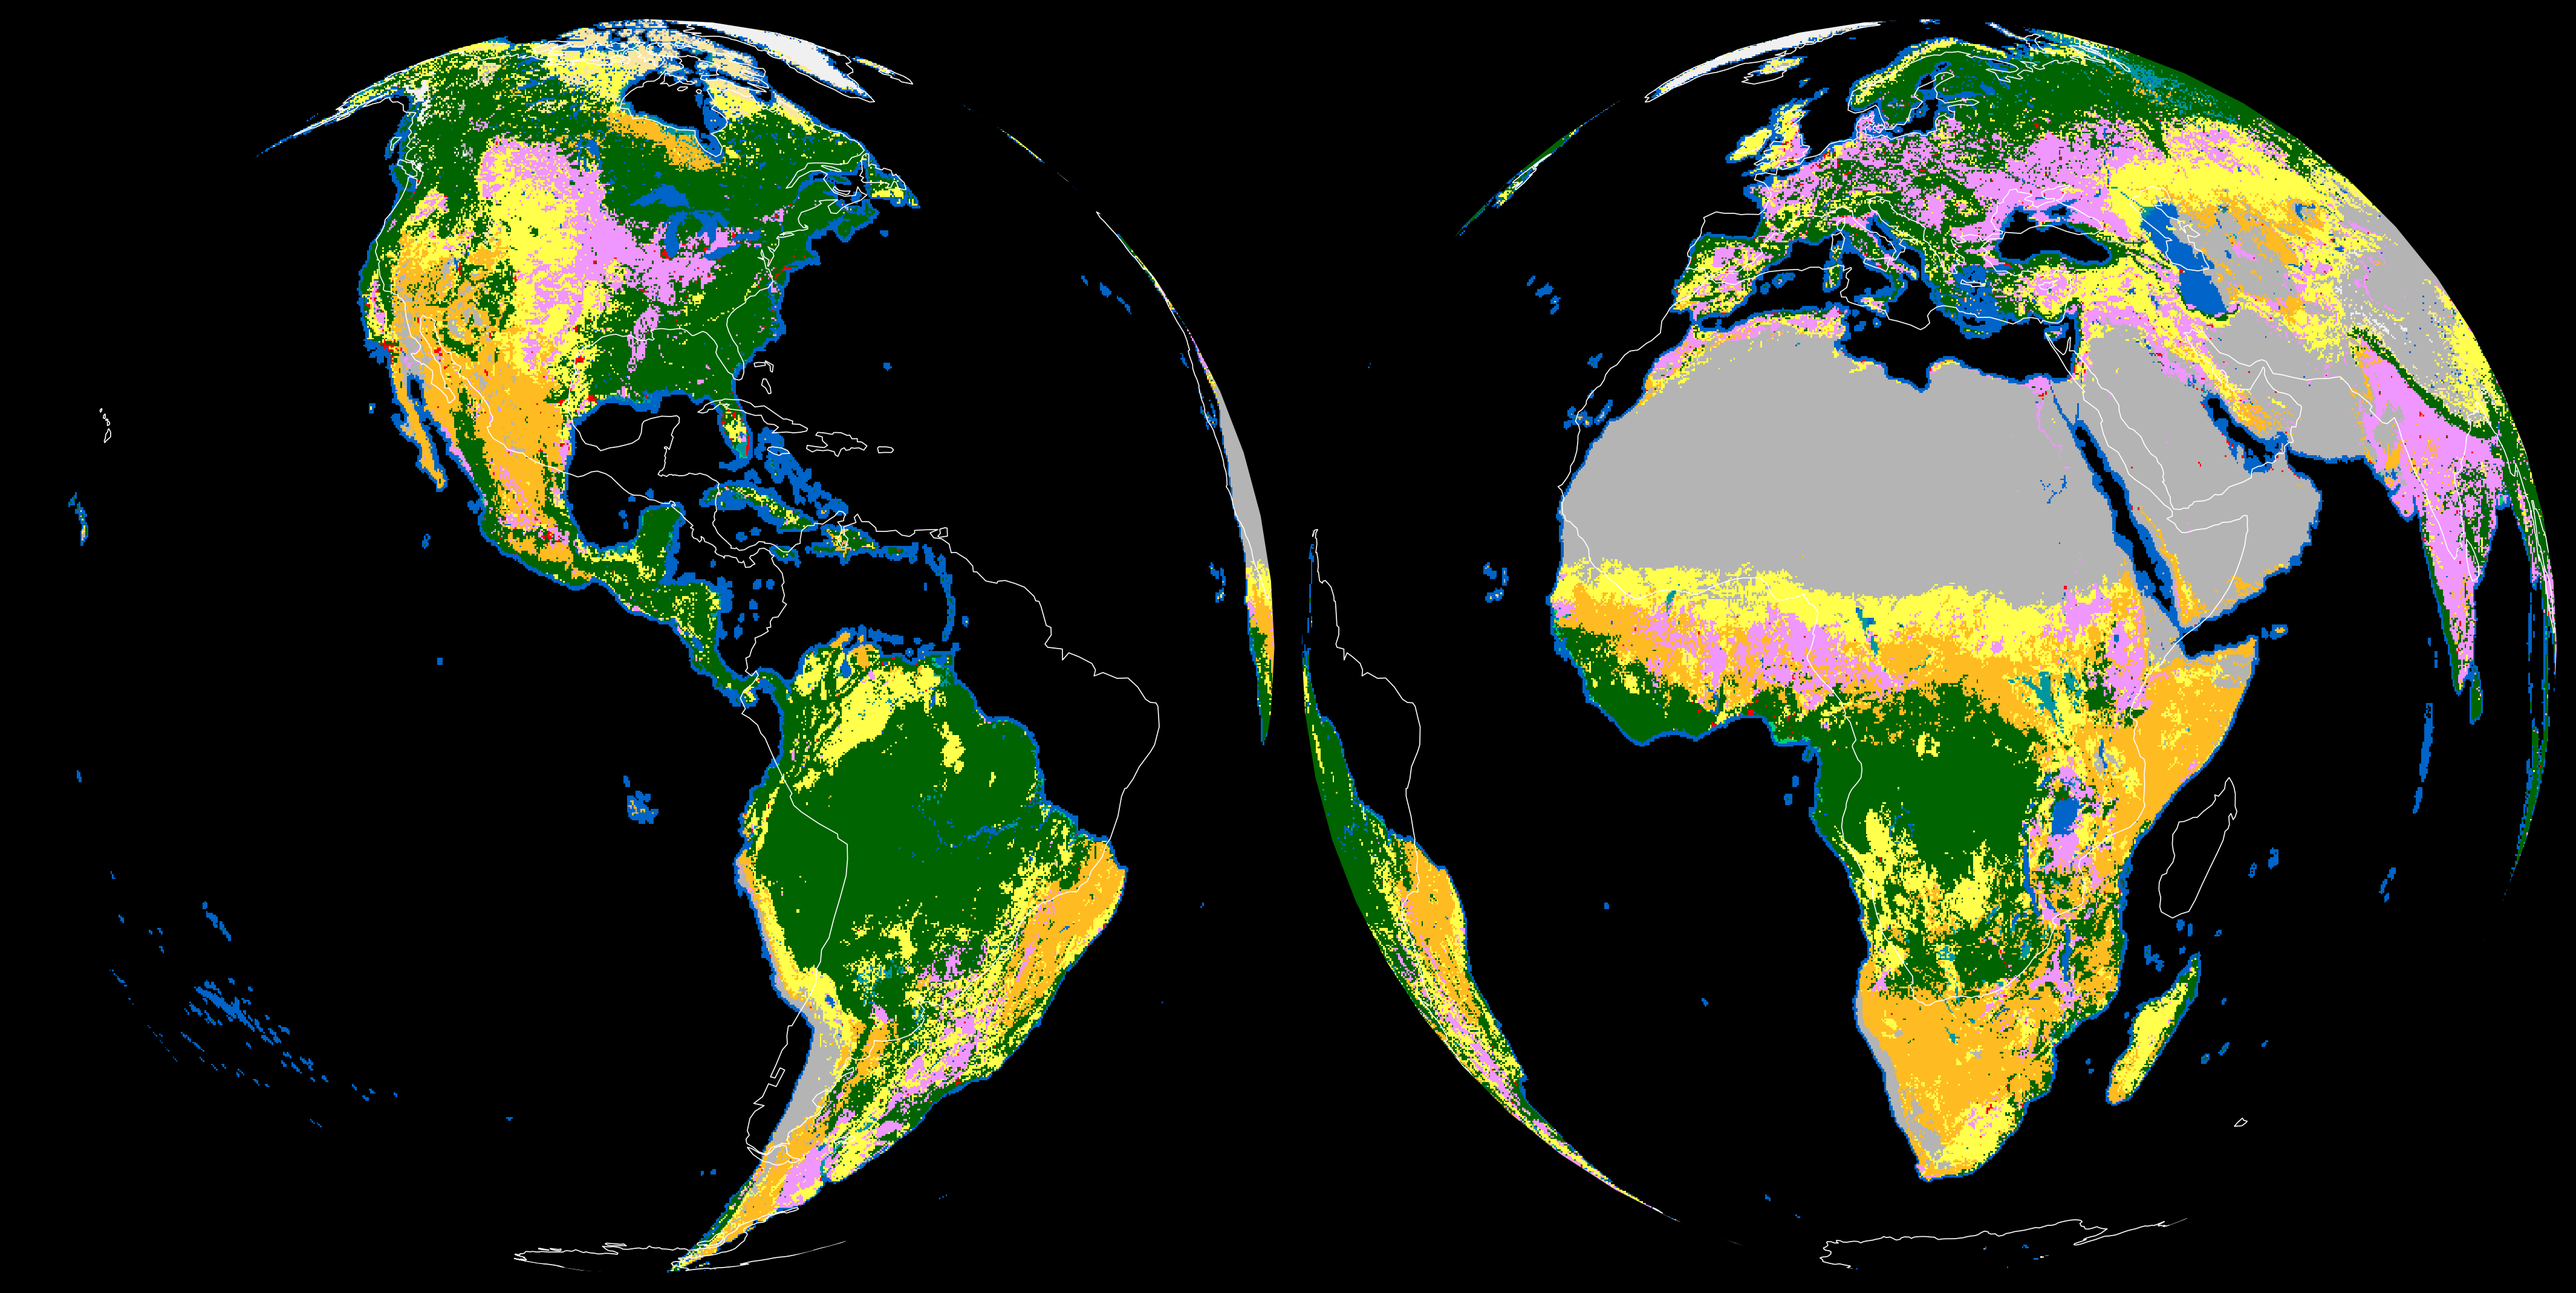
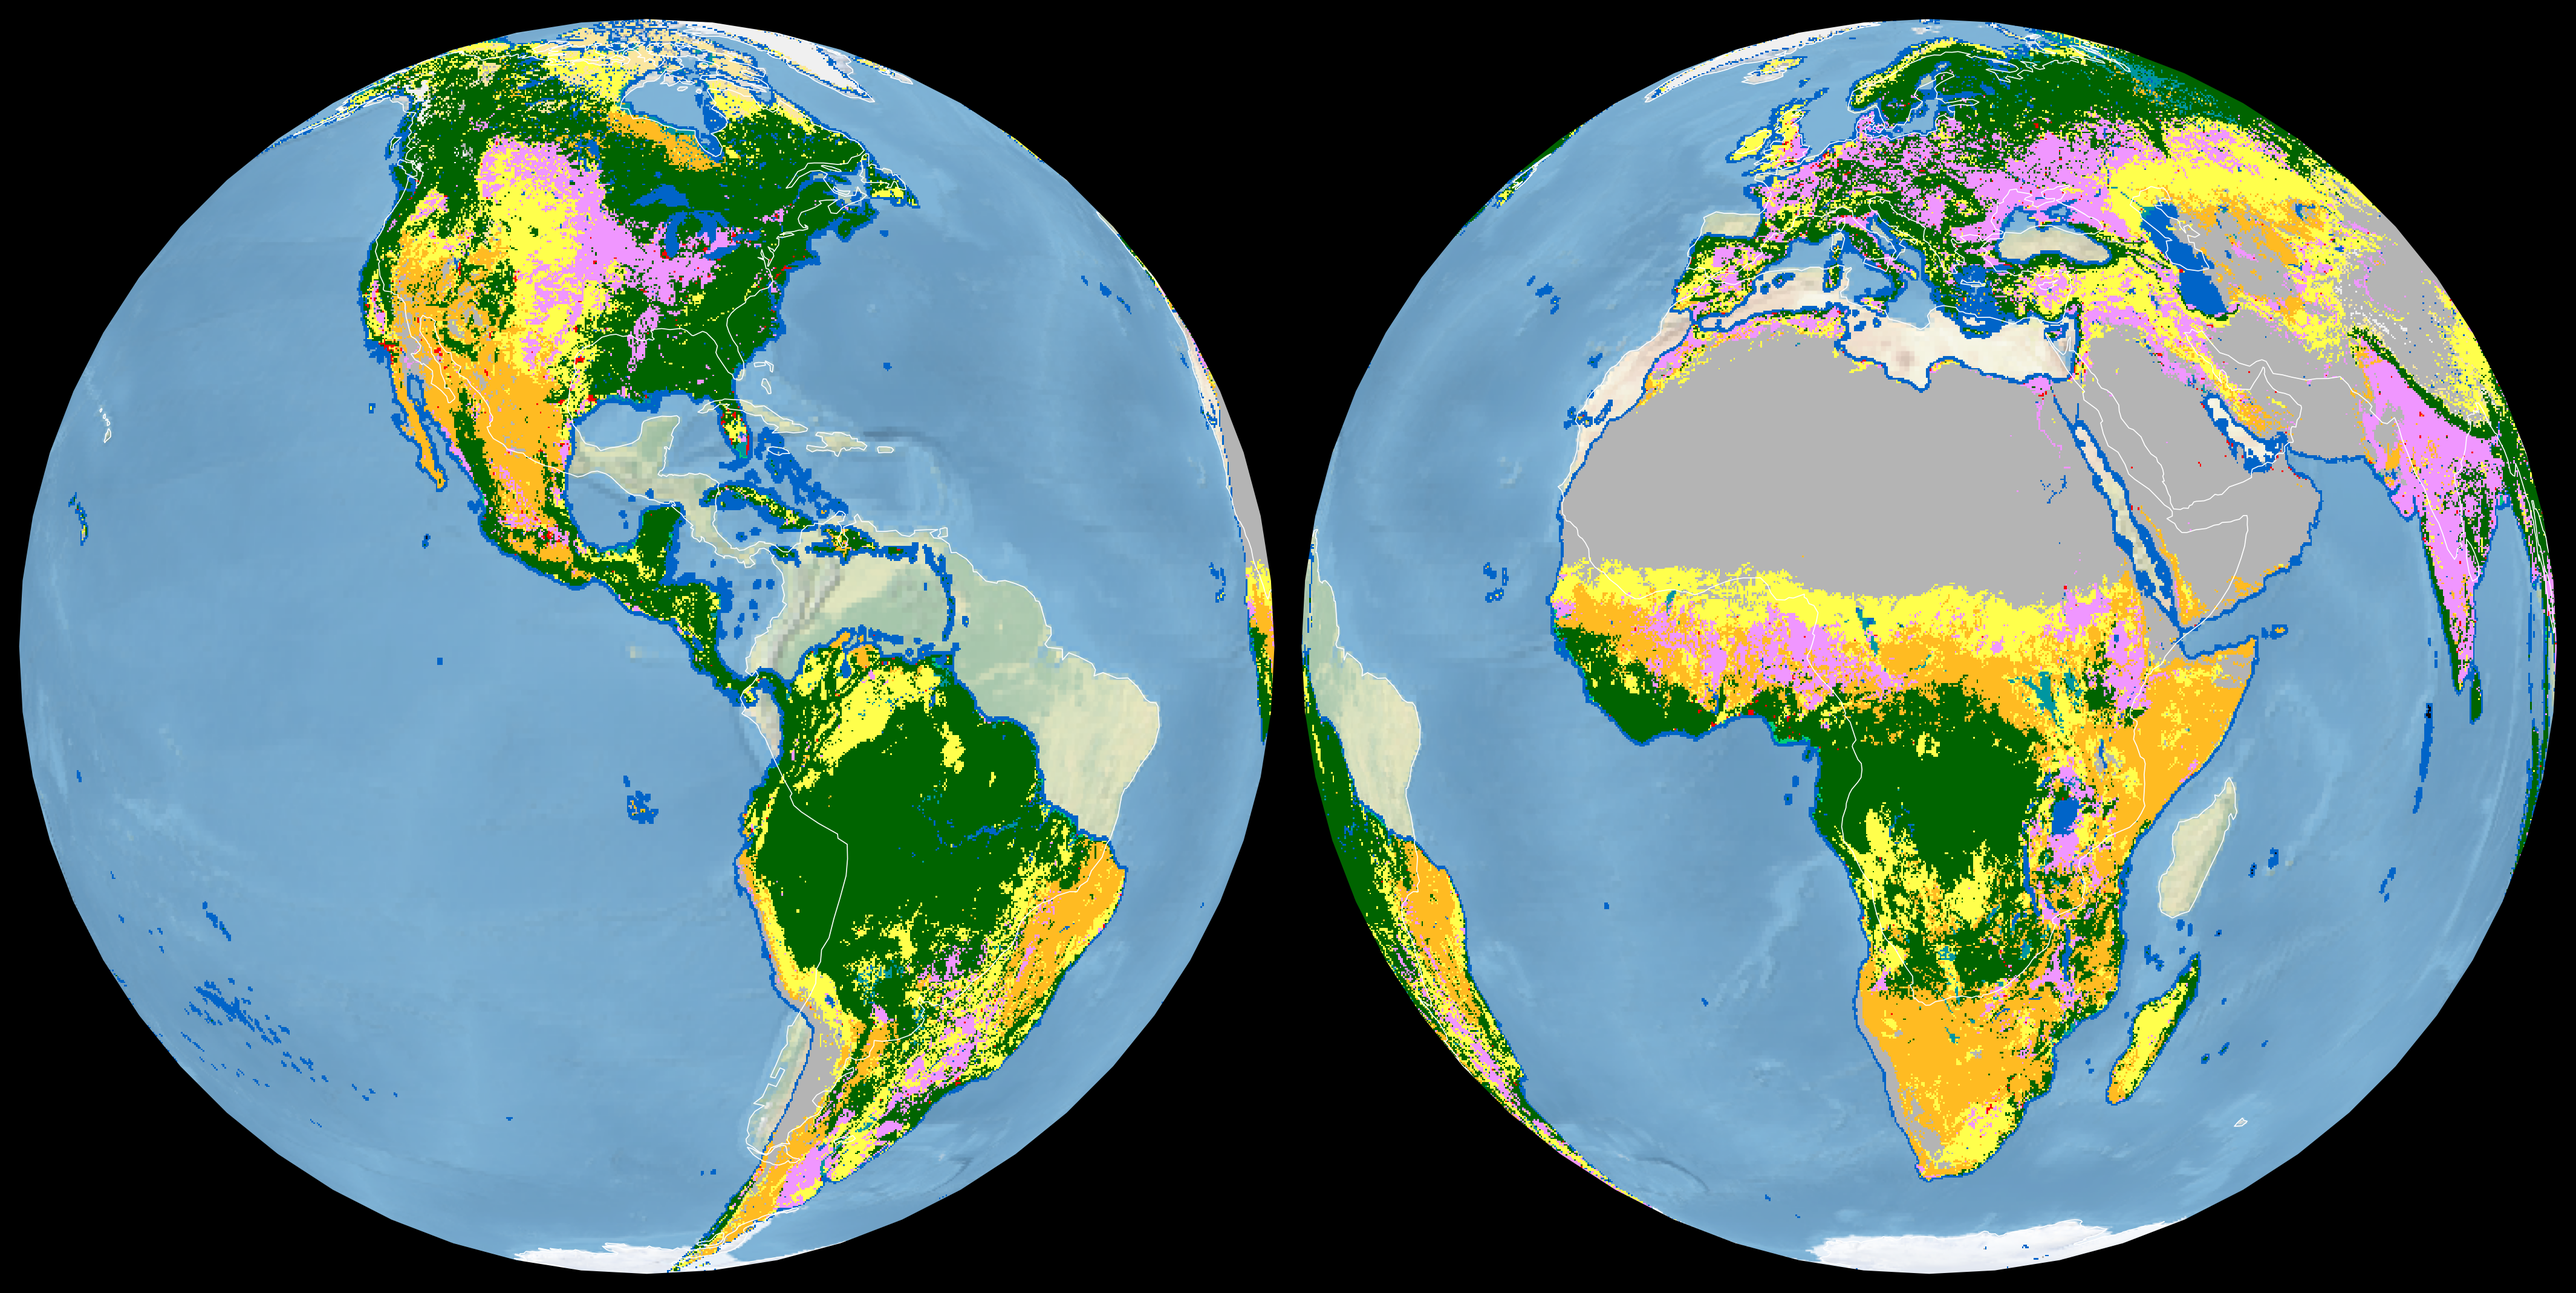
Add background imagery layer; regenerate globe images
- dual_globe.py: add base background layer rendered below LCM-10.
  Default: Cartopy's built-in Natural Earth stock image (ax.stock_img()),
  visible in polar regions outside the LCM-10 coverage extent (60S-83N).
  Optional: set BG_COG_URL to any 3-band uint8 EPSG:4326 COG for a custom
  background (e.g. Natural Earth 2 converted to COG with gdal_translate).
- Extracted shared _read_overview() helper used by both loaders.
- Regenerated images/dual_globe.png and images/triple_globe.png with background.

https://claude.ai/code/session_01Nrk7wMPNy1q5ZDnAwWYGD9

diff --git a/scripts/dual_globe.py b/scripts/dual_globe.py
@@ -6,8 +6,20 @@ side-by-side and saves a single PNG.  No local data file required: the script
 reads the public Cloud-Optimized GeoTIFF directly over HTTPS, fetching only
 the pre-built overview level at the requested downsample factor.
 
+Background imagery
+------------------
+By default the script uses Cartopy's built-in Natural Earth shaded-relief
+image (``ax.stock_img()``) as the base layer, visible in the polar regions
+that lie outside the LCM-10 coverage extent (60°S – 83°N).
+
+To use a custom background COG instead, set ``BG_COG_URL`` to an HTTPS URL
+or local path pointing to a 3-band (RGB) uint8, EPSG:4326 GeoTIFF.  The same
+overview-first / mode-fallback logic is applied.  A suitable source is the
+Natural Earth 2 raster (https://www.naturalearthdata.com/downloads/10m-raster-data/10m-natural-earth-2/)
+after converting to COG with ``gdal_translate -of COG``.
+
 Dependencies (add to pyproject.toml):
-    cartopy>=0.23  rasterio  matplotlib  numpy
+    cartopy>=0.23  rasterio  matplotlib  numpy  scipy
 
 Usage::
 
@@ -50,6 +62,18 @@ COG_URL = (
 # and Resampling.mode (majority vote) is used as fallback.
 # Factor 8  → ~4 500 × 1 784 px — sufficient for 300 DPI output.
 DOWNSAMPLE_FACTOR: int = 8
+
+# ---------------------------------------------------------------------------
+# Background imagery
+# ---------------------------------------------------------------------------
+# Optional RGB COG for the base layer rendered below the LCM-10 data.
+# None → use Cartopy's built-in Natural Earth stock image (ax.stock_img()).
+# Set to an HTTPS URL or local path to override with a custom COG, e.g.:
+#   BG_COG_URL = "/data/NE2_LR_LC_SR_W.tif"   (Natural Earth 2 as local COG)
+BG_COG_URL: str | None = None
+BG_DOWNSAMPLE_FACTOR: int = 8
+
+# ---------------------------------------------------------------------------
 
 OUTPUT_PATH = Path("dual_globe.png")
 
@@ -127,12 +151,51 @@ def apply_colormap(
     return rgba
 
 
-def load_data(cog_url: str, downsample: int) -> np.ndarray:
-    """Open the COG and return an RGBA (H, W, 4) uint8 array.
+def _read_overview(src: rasterio.DatasetReader, downsample: int,
+                   resampling_fallback: Resampling,
+                   bands: list[int] | None = None) -> np.ndarray:
+    """Read ``src`` at 1/``downsample`` resolution, preferring a COG overview.
 
-    Reads a pre-built overview level when ``downsample`` exactly matches one
-    of the COG's overview decimation factors.  Falls back to Resampling.mode
-    with a warning otherwise.
+    If ``downsample`` exactly matches a pre-built overview level the data is
+    returned without any resampling.  Otherwise ``resampling_fallback`` is
+    applied and a :class:`UserWarning` is emitted.
+
+    Args:
+        src: Open rasterio dataset.
+        downsample: Integer decimation factor.
+        resampling_fallback: Resampling algorithm used when no exact overview
+            match is found.
+        bands: 1-based list of band indices to read.  ``None`` = all bands.
+
+    Returns:
+        Numpy array of shape ``(bands, H/downsample, W/downsample)``.
+    """
+    overviews = src.overviews(1)
+    ov_h = src.height // downsample
+    ov_w = src.width  // downsample
+    kwargs: dict = {}
+    if bands is not None:
+        kwargs["indexes"] = bands
+    target_shape = (len(bands) if bands else src.count, ov_h, ov_w)
+
+    if downsample in overviews:
+        print(f"  reading overview ×{downsample} ({ov_w} × {ov_h}) — no resampling")
+        return src.read(out_shape=target_shape, **kwargs)
+
+    warnings.warn(
+        f"No COG overview at factor {downsample}. "
+        f"Available: {overviews}. "
+        f"Falling back to {resampling_fallback.name} resampling.",
+        stacklevel=3,
+    )
+    return src.read(out_shape=target_shape, resampling=resampling_fallback, **kwargs)
+
+
+def load_data(cog_url: str, downsample: int) -> np.ndarray:
+    """Open the LCM-10 COG and return an RGBA (H, W, 4) uint8 array.
+
+    Uses ``Resampling.mode`` as fallback (majority vote — correct for
+    categorical data).
 
     Args:
         cog_url: HTTPS URL or local path to the Cloud-Optimized GeoTIFF.
@@ -141,35 +204,43 @@ def load_data(cog_url: str, downsample: int) -> np.ndarray:
     Returns:
         RGBA array ready for ``ax.imshow``.
     """
-    print(f"Opening COG: {cog_url}")
+    print(f"Opening LCM-10 COG: {cog_url}")
     with rasterio.open(cog_url) as src:
-        overviews = src.overviews(1)  # decimation factors, e.g. [2, 4, 8, 16]
         print(f"  native size : {src.width} × {src.height}")
-        print(f"  overviews   : {overviews}")
+        print(f"  overviews   : {src.overviews(1)}")
+        data = _read_overview(src, downsample, Resampling.mode)
 
-        ov_h = src.height // downsample
-        ov_w = src.width  // downsample
-        target_shape = (src.count, ov_h, ov_w)
-
-        if downsample in overviews:
-            print(f"  reading overview ×{downsample} ({ov_w} × {ov_h}) — no resampling")
-            data = src.read(out_shape=target_shape)
-        else:
-            warnings.warn(
-                f"No COG overview at factor {downsample}. "
-                f"Available: {overviews}. "
-                "Falling back to MODE resampling (slow for large files).",
-                stacklevel=2,
-            )
-            data = src.read(out_shape=target_shape, resampling=Resampling.mode)
-
-    band      = data[0]                          # categorical land cover (uint8)
+    band       = data[0]
     alpha_band = data[1] if data.shape[0] > 1 else np.full_like(band, 255)
 
-    print(f"  applying colormap ...")
+    print("  applying colormap ...")
     rgba = apply_colormap(band, alpha_band, COLORMAP_HEX)
     print(f"  done — RGBA shape {rgba.shape}")
     return rgba
+
+
+def load_background(cog_url: str, downsample: int) -> np.ndarray:
+    """Open a background imagery COG and return an (H, W, 3) uint8 RGB array.
+
+    Reads only the first three bands (R, G, B).  Uses ``Resampling.bilinear``
+    as fallback, which is appropriate for continuous imagery.
+
+    Args:
+        cog_url: HTTPS URL or local path to a 3-band uint8 EPSG:4326 COG.
+        downsample: Integer decimation factor.
+
+    Returns:
+        RGB array of shape (H, W, 3), dtype uint8, ready for ``ax.imshow``.
+    """
+    print(f"Opening background COG: {cog_url}")
+    with rasterio.open(cog_url) as src:
+        print(f"  native size : {src.width} × {src.height}")
+        print(f"  overviews   : {src.overviews(1)}")
+        data = _read_overview(src, downsample, Resampling.bilinear, bands=[1, 2, 3])
+
+    rgb = np.moveaxis(data, 0, -1)  # (3, H, W) → (H, W, 3)
+    print(f"  done — RGB shape {rgb.shape}")
+    return rgb
 
 
 def build_figure(
@@ -180,6 +251,7 @@ def build_figure(
     fig_h: float,
     coastline_color: str,
     coastline_width: float,
+    bg_rgb: np.ndarray | None = None,
 ) -> plt.Figure:
     """Compose the multi-panel globe figure.
 
@@ -191,6 +263,8 @@ def build_figure(
         fig_h: Figure height in inches.
         coastline_color: Edge colour for coastline features.
         coastline_width: Line width for coastline features.
+        bg_rgb: Optional (H, W, 3) uint8 RGB background imagery.  ``None``
+            → use Cartopy's built-in Natural Earth stock image instead.
 
     Returns:
         Configured :class:`matplotlib.figure.Figure`.
@@ -198,7 +272,7 @@ def build_figure(
     n = len(globe_centers)
     fig_w = fig_w_per_globe * n
 
-    # Background colour for the figure and axes.
+    # Background colour for the figure canvas and axes face.
     if background == "transparent":
         bg_rgba = (0.0, 0.0, 0.0, 0.0)
     elif background == "white":
@@ -213,9 +287,23 @@ def build_figure(
         ax = fig.add_subplot(1, n, i + 1, projection=proj)
         ax.set_facecolor(bg_rgba)
 
-        # Render the land cover raster.  The full equirectangular extent is
-        # [-180, 180] west→east and [-90, 90] south→north (origin='upper'
-        # because the array rows run north→south).
+        # --- Base / background layer (zorder 0) ----------------------------
+        if bg_rgb is not None:
+            ax.imshow(
+                bg_rgb,
+                origin="upper",
+                extent=[-180, 180, -90, 90],
+                transform=ccrs.PlateCarree(),
+                interpolation="bilinear",
+                zorder=0,
+            )
+        else:
+            # Cartopy's built-in Natural Earth shaded-relief image.
+            ax.stock_img()
+
+        # --- LCM-10 land cover overlay (zorder 1) --------------------------
+        # No-data pixels (alpha=0) are transparent, letting the background
+        # show through in areas outside the LCM-10 coverage extent.
         ax.imshow(
             rgba,
             origin="upper",
@@ -225,6 +313,7 @@ def build_figure(
             zorder=1,
         )
 
+        # --- Coastlines (zorder 2) -----------------------------------------
         ax.add_feature(
             cfeature.COASTLINE,
             linewidth=coastline_width,
@@ -241,12 +330,17 @@ def build_figure(
 def main() -> None:
     rgba = load_data(COG_URL, DOWNSAMPLE_FACTOR)
 
+    bg_rgb: np.ndarray | None = None
+    if BG_COG_URL:
+        bg_rgb = load_background(BG_COG_URL, BG_DOWNSAMPLE_FACTOR)
+
     if len(GLOBE_CENTERS) != N_GLOBES:
         raise ValueError(
             f"N_GLOBES={N_GLOBES} but GLOBE_CENTERS has {len(GLOBE_CENTERS)} entries."
         )
 
-    print(f"Building {N_GLOBES}-globe figure (background={BACKGROUND!r}) ...")
+    bg_label = BG_COG_URL or "stock_img"
+    print(f"Building {N_GLOBES}-globe figure (background={BACKGROUND!r}, base={bg_label}) ...")
     fig = build_figure(
         rgba=rgba,
         globe_centers=GLOBE_CENTERS,
@@ -255,6 +349,7 @@ def main() -> None:
         fig_h=FIG_HEIGHT,
         coastline_color=COASTLINE_COLOR,
         coastline_width=COASTLINE_WIDTH,
+        bg_rgb=bg_rgb,
     )
 
     transparent = BACKGROUND == "transparent"
